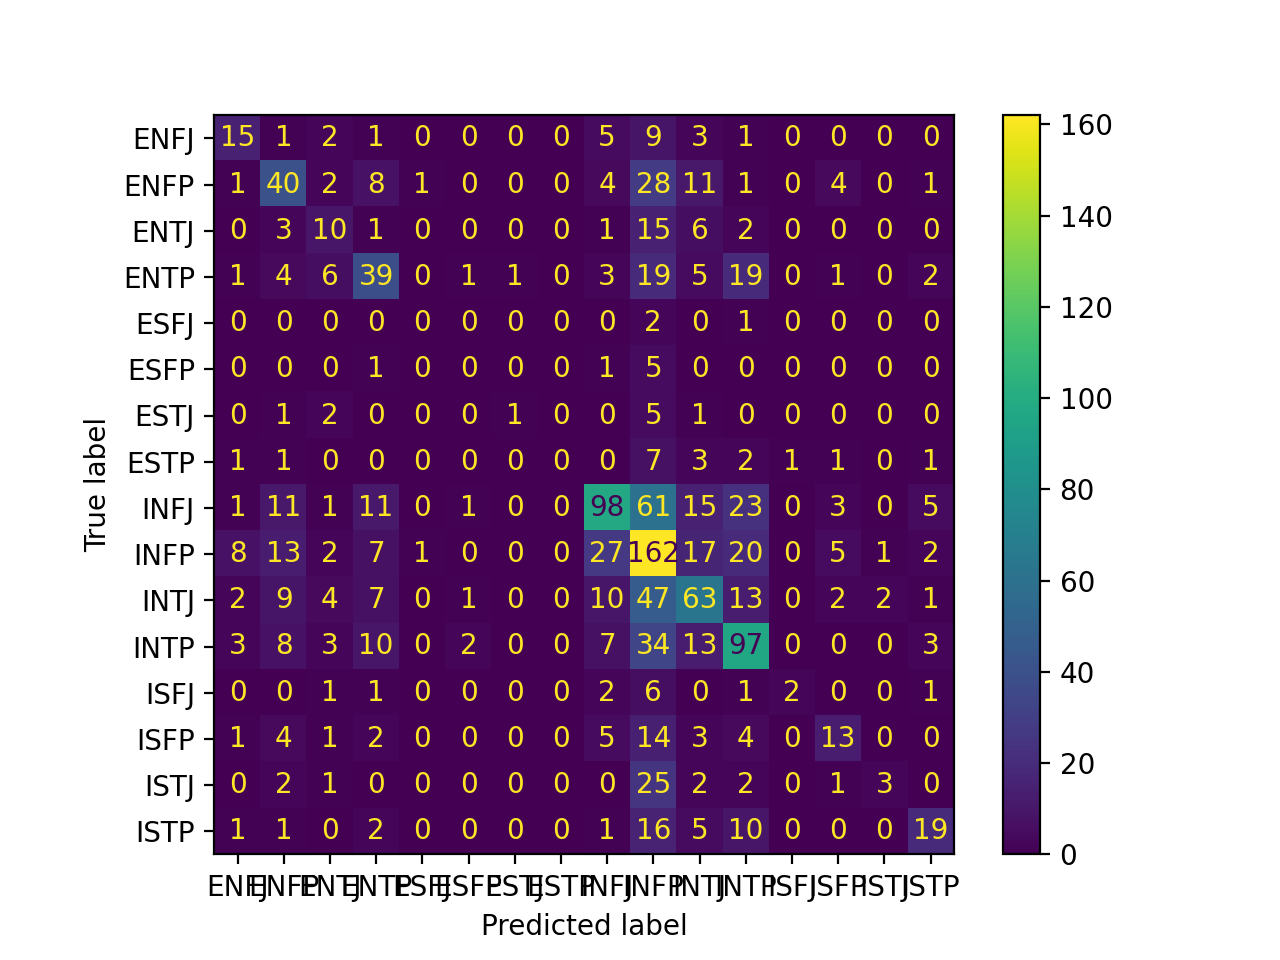
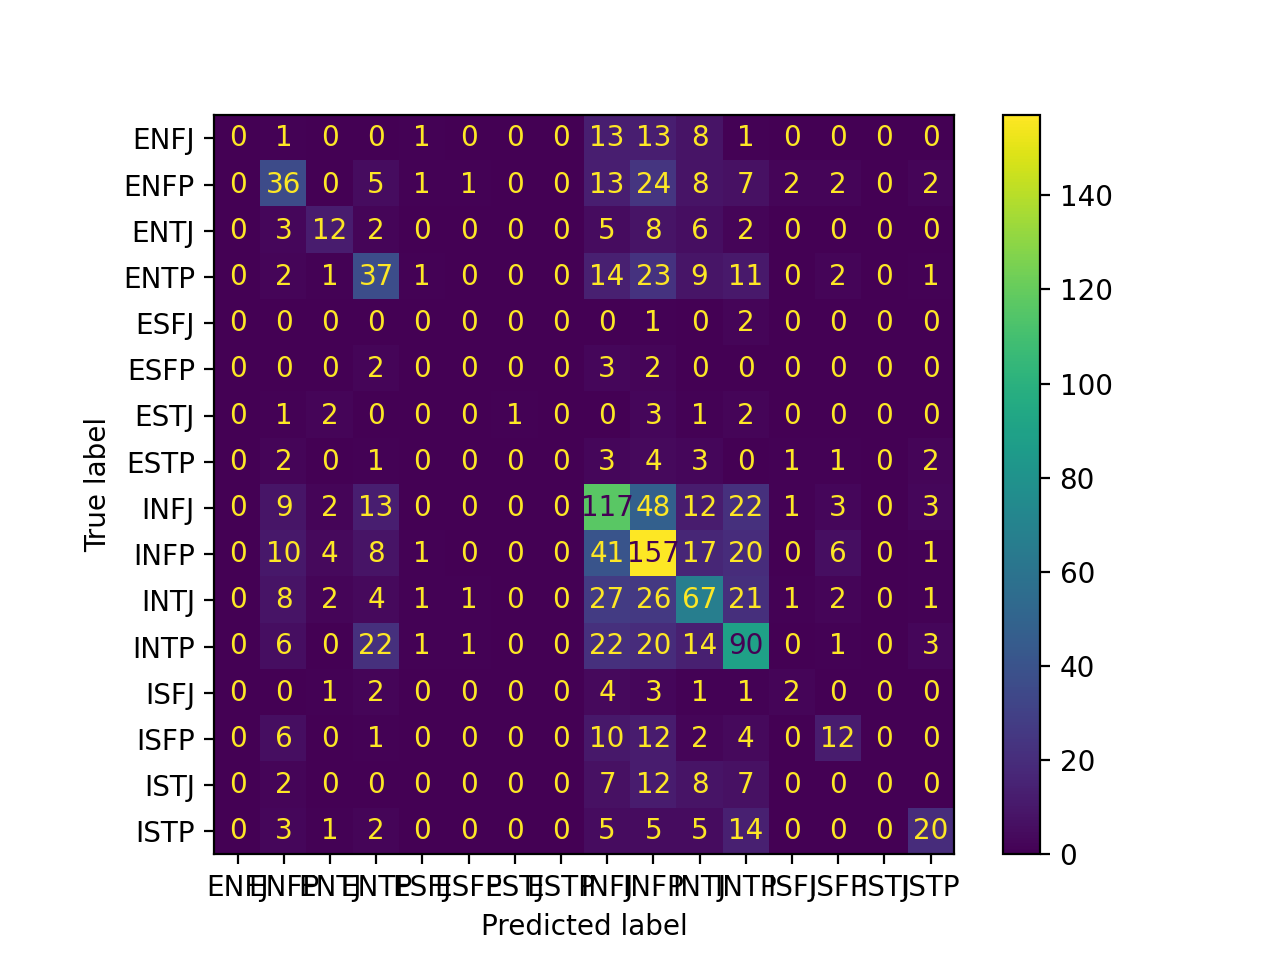
Add existing file

diff --git a/TextClassification.py b/TextClassification.py
@@ -10,6 +10,8 @@ from sklearn.datasets import make_classification
 import matplotlib.pyplot as plt  
 from sklearn.metrics import plot_confusion_matrix
 from sklearn.linear_model import LogisticRegression
+import nltk
+from nltk.stem.snowball import SnowballStemmer
 
 '''
 ## PREPROCESSING
@@ -107,36 +109,58 @@ test = pd.read_csv('test.csv')
 #print(test.head())
 
 
+# define a function to tokenize and stem the data
+
+stemmer = SnowballStemmer("english")
+
+def tokenize_and_stem(text):
+
+    # first tokenize by sentence, then by word
+    tokens = [word for sent in nltk.sent_tokenize(text) for word in nltk.word_tokenize(sent)]
+    filtered_tokens = []
+
+    # filter out any tokens not containing letters
+    for token in tokens:
+        if re.search('[a-zA-Z]', token):
+            filtered_tokens.append(token)
+
+    stems = [stemmer.stem(t) for t in filtered_tokens]
+
+    return stems
+
+
+
 ## FEATURE EXTRACTION
 
 
-vectorizer = TfidfVectorizer()
+vectorizer = TfidfVectorizer(tokenizer = tokenize_and_stem, max_df = 4500, min_df = 6)
 X_train = vectorizer.fit_transform(train['posts'])
 y_train0 = train['type']
 X_val = vectorizer.transform(val['posts'])
-y_val = val['type']
+y_val0 = val['type']
 X_test = vectorizer.transform(test['posts'])
 y_test0 = test['type']
 
 #print(vectorizer.get_feature_names())
 
 
-'''
-## MODELING
-## Multiclass One vs Rest
 
+## MODELING
 # Gradient Boosting
 
 gb_clf = GradientBoostingClassifier(n_estimators=100, learning_rate=1.0, 
-                                max_depth=1, random_state=0).fit(X_train, y_train)
+                                max_depth=1, random_state=0).fit(X_train, y_train0)
 
-print(gb_clf.score(X_test, y_test))
 
-# initial accuracy: 0.43164362519201227
+# use validation set to determine what the best min and max document frequencies are
+#print(gb_clf.score(X_val, y_val0))
+# 0.44273635664873173
 
-plot_confusion_matrix(gb_clf, X_test, y_test)  
+# determine accuracy on the test set
+print(gb_clf.score(X_test, y_test0))
+plot_confusion_matrix(gb_clf, X_test, y_test0)  
 plt.savefig('gradientboosting_cm.png', dpi=200)
-'''
+
 
 
 # defines new target y values to create a binary classification problem 
@@ -176,64 +200,66 @@ def define_values(trait):
 
 
 
-## train a classifier to determine if someone is introverted or extroverted
 
-# assign target values (0: introvert, 1: extrovert)
-y_train, y_test = define_values('I')
+## train a binary classifier to determine one of the four MBTI traits
+def train_model(trait1, trait2):
 
-
-logistic_clf1 = LogisticRegression(random_state=0).fit(X_train, y_train)
-
-# check accuracy and plot confusion matrix
-print(logistic_clf1.score(X_test, y_test))
-
-plot_confusion_matrix(logistic_clf1, X_test, y_test)  
-plt.savefig('IE_confmat.png', dpi=200)
+    # assign target values to each personality trait
+    y_train, y_test = define_values(trait1)
 
 
+    logistic_clf = LogisticRegression(random_state=0).fit(X_train, y_train)
 
-## train a classifier to determine if someone is sensing or intuitive
+    y_pred = logistic_clf.predict(X_test).tolist()
 
-# assign target values (0: sensing, 1: intuitive)
-y_train, y_test = define_values('S')
+    # check accuracy and plot confusion matrix
+    print(logistic_clf.score(X_test, y_test))
 
+    plot_confusion_matrix(logistic_clf, X_test, y_test) 
+    doc_name = trait1 + trait2 + '_confmat.png' 
+    plt.savefig(doc_name, dpi=200)
 
-logistic_clf2 = LogisticRegression(random_state=0).fit(X_train, y_train)
-
-# check accuracy and plot confusion matrix
-print(logistic_clf2.score(X_test, y_test))
-
-plot_confusion_matrix(logistic_clf2, X_test, y_test)  
-plt.savefig('SN_confmat.png', dpi=200)
+    return y_pred
 
 
-
-## train a classifier to determine if someone is thinking or feeling
-
-# assign target values (0: thinking, 1: feeling)
-y_train, y_test = define_values('T')
-
-
-logistic_clf3 = LogisticRegression(random_state=0).fit(X_train, y_train)
-
-# check accuracy and plot confusion matrix
-print(logistic_clf3.score(X_test, y_test))
-
-plot_confusion_matrix(logistic_clf3, X_test, y_test)  
-plt.savefig('TF_confmat.png', dpi=200)
+y_pred1 = train_model('I', 'E')
+y_pred2 = train_model('S', 'N')
+y_pred3 = train_model('T', 'F')
+y_pred4 = train_model('J', 'P')
 
 
+# create a list of the full predicted personality types
+y_pred =[]
+for i in range(len(y_pred1)):
+    type = ''
+    if y_pred1[i] == 0:
+        type += 'I'
+    else:
+        type += 'E'
+    if y_pred2[i] == 0:
+        type += 'S'
+    else:
+        type += 'N'
+    if y_pred3[i] == 0:
+        type += 'T'
+    else:
+        type += 'F'
+    if y_pred4[i] == 0:
+        type += 'J'
+    else:
+        type += 'P'
 
-## train a classifier to determine if someone is judging or perceiving
-
-# assign target values (0: judging, 1: perceiving)
-y_train, y_test = define_values('J')
+    y_pred.append(type)
 
 
-logistic_clf4 = LogisticRegression(random_state=0).fit(X_train, y_train)
 
-# check accuracy and plot confusion matrix
-print(logistic_clf4.score(X_test, y_test))
+# calculate accuracy for the combination of all four binary classifiers
 
-plot_confusion_matrix(logistic_clf4, X_test, y_test)  
-plt.savefig('JP_confmat.png', dpi=200)
+num_correct = 0
+for i in range(len(y_pred)):
+    if y_pred[i] == y_test0[i]:
+        num_correct +=1
+
+accuracy = num_correct/len(y_test0)
+print(accuracy)
+
